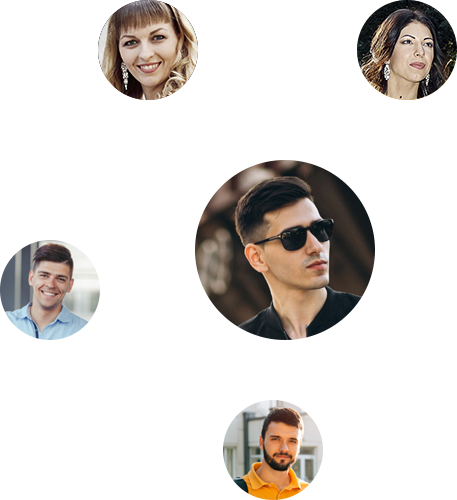
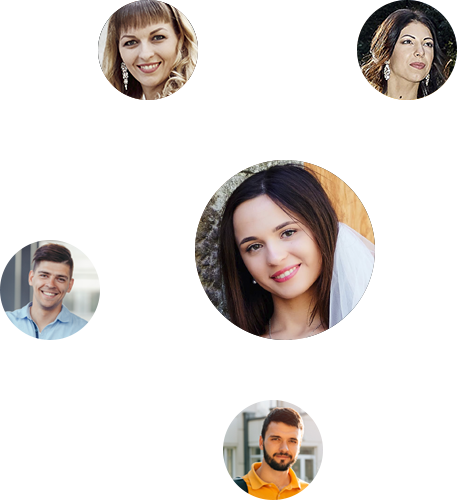
текст и фото
коммент изменил и фотку круглую поправил, поставил невесту.

Changed region(s): [[0.4289, 0.3, 0.8271, 0.69]]

diff --git a/index.html b/index.html
@@ -492,7 +492,7 @@
                     <div class="review_slider owl-carousel">
                         <div class="review_part_text">
                             <h5>Отзыв клиента</h5>
-                            <h2>Портретное фото в саду.</h2>
+                            <h2>Портретная фотосессия в Гурзуфе</h2>
                             <p>Очень благодарна за самые яркие и потрясающие фотографии которые у меня были.
                               Хочется выделить то, что даже в холодную и тусклую погоду, Даниил смог найти момент для солнца и сделать так, будто оказалась не в холодном декабре, а теплый летний день..
                               Глаза не нарадуются просмотрами фото.
@@ -501,18 +501,13 @@
                         </div>
                         <div class="review_part_text">
                             <h5>Отзыв клиента</h5>
-                            <h2>Фото образы </h2>
-                            <p>Спонтанно решила поучаствовать в Фотопроекте "Гостья из прошлого" фотографа Даниила Базарного.
-                            Меня всегда привлекали яркие 💃 вещи из прошлого, но позволить себе так разодеться я могла только на экстрим выездах, где меня называли и фитнес тренером 💁, и грабительницей бабушкиного сундука 🗃 😆
-                            Было забавно и весело ходить в таком виде по городу среди всё ещё серых людей не проснувшихся после зимы.
-                            Отдельно хочется выделить комфортность работы с фотографом. До встречи были небольшие волнения, ведь очень важно быть на одной волне с фотографом. Но Даниил приятный дружелюбный человек умеющий располагать к себе и создавать непринуждённую атмосферу! А это ой как важно в его сфере работы!) 👆 Я просто была сама собой, дурачилась, а мастер делал своё дело!
-                            Очень порадовал результат работы! Столько крутых снимков, что глаза разбегались какие выбрать! Поснимали чуть в 80-х и обратно в 2017-й.
-                            Спасибо за продуктивное сотрудничество!) Приятно было познакомиться! Буду рада поучаствовать в осуществлении новых идей и образов! 😊</p>
-                            <h3>Анастасия Колесникова<span></span> </h3>
+                            <h2>Свадьба Диана и Александр</h2>
+                            <p>Хотим в свою очередь сказать огромное спасибо профи своего дела Даниилу спасибо, что помог воплотить нашу мечту в реальность и провести потрясающую Свадебную фотосессию!</p>
+                            <h3>Александр и Диана<span></span> </h3>
                         </div>
                         <div class="review_part_text">
                             <h5>Отзыв клиента</h5>
-                            <h2>Модельное фото для сайта</h2>
+                            <h2>Индивидуальная фотосессия</h2>
                             <p>Дэн, спасибо за помощь в воплощении моих задумок! Теперь я точно знаю, что благодаря тебе у меня получится реализовать свои гениальные идеи :)) Хорошо, когда ты с фотографом на одной волне!</p>
                             <h3>КриСтина Балясная<span> </span> </h3>
                         </div>
